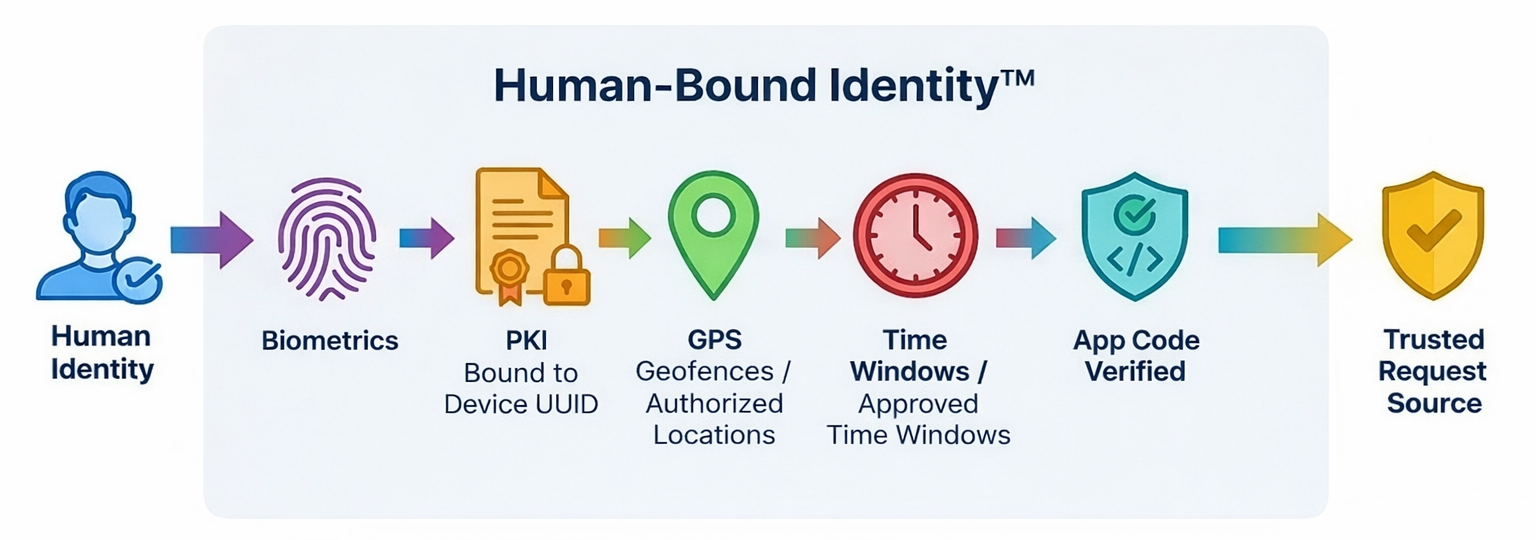
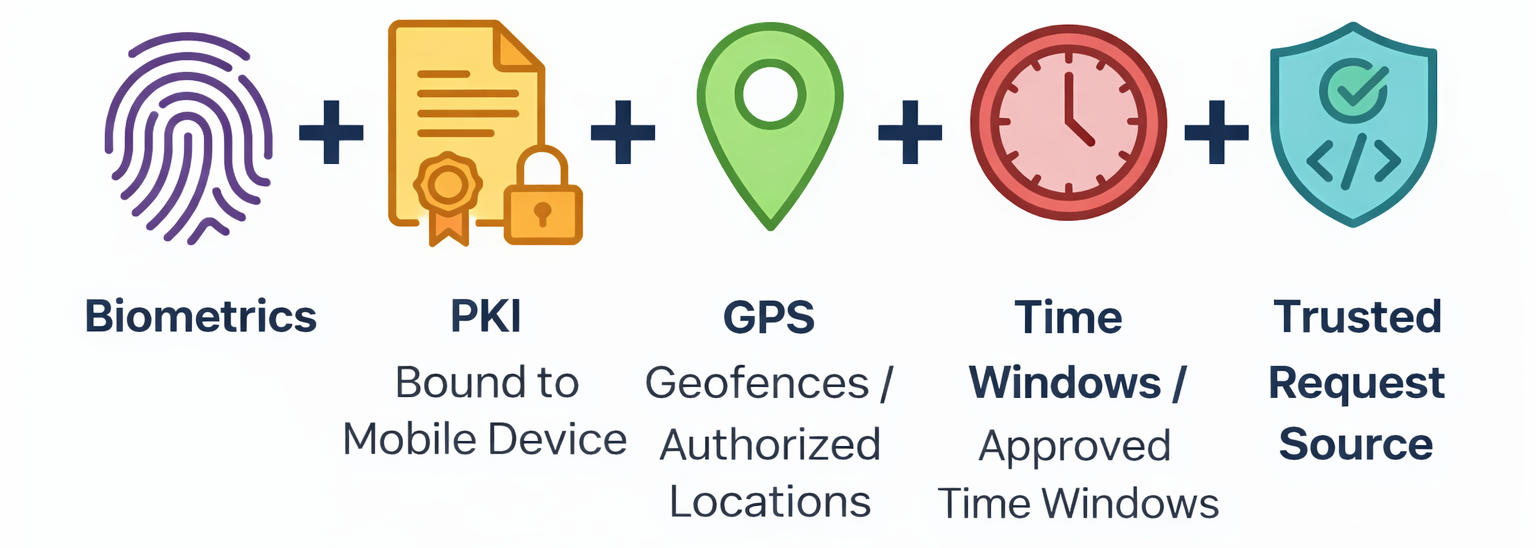
Update HumanAuthorityEnforce and HumanAuthorityMustProven components for improved text clarity and styling. Replace unused humanIdentity import. Update images for consistency in the homepage layout.

diff --git a/src/components/home/HumanAuthorityMustProven.tsx b/src/components/home/HumanAuthorityMustProven.tsx
@@ -7,18 +7,26 @@ const HumanAuthorityMustProven = () => {
         <h2 className="text-4xl md:text-5xl font-bold text-primary mb-6">
           Human Authority Must be Proven at Execution
         </h2>
-        <p className="mx-auto mt-4 max-w-3xl text-xl font-bold italic text-teal-primary sm:text-2xl">
+        <p className="mx-auto mt-4 max-w-3xl text-xl font-bold italic text-teal-primary sm:text-3xl">
           From Identity to Provable (and Trusted) Authority
         </p>
-        <div className="flex justify-center py-4">
+        <div className="flex justify-center py-4 mt-4">
           <div className="relative rounded-lg overflow-hidden ">
-            <Image
-              src={ProvenAuthorityImage}
-              alt="Human Authority Must be Proven at Execution"
-              width={1200}
-              height={700}
-              className="object-cover"
-            />
+            <div className=" border-5 max-w-4xl mx-auto p-6">
+              <h1 className="text-2xl font-bold text-primary mb-4">
+                Human-Bound Identity™ (Factors)
+              </h1>
+              <Image
+                src={ProvenAuthorityImage}
+                alt="Human Authority Must be Proven at Execution"
+                width={1200}
+                height={700}
+                className="object-cover"
+              />
+            </div>
+            <h2 className="text-2xl font-bold text-primary mb-4 max-w-3xl mt-6 mx-auto">
+              Proven Human Authority Before Risking Actions With 1-Click on Your Mobile Phone
+            </h2>
           </div>
         </div>
       </div>

diff --git a/src/components/home/HumanAuthorityEnforce.tsx b/src/components/home/HumanAuthorityEnforce.tsx
@@ -4,9 +4,9 @@ const HumanAuthorityEnforce = () => {
     return (
       <div className="text-center py-16 px-4">
         <h2 className="text-4xl md:text-5xl font-bold text-primary mb-6">
-          Human Authority Enforce at Execution
+          Human Authority Enforced at Execution
         </h2>
-        <p className="mx-auto mt-4 max-w-3xl text-xl font-bold italic text-teal-primary sm:text-2xl">
+        <p className="mx-auto mt-4 max-w-4xl text-xl font-bold italic text-teal-primary sm:text-3xl mb-4 md:mb-8">
           Identity Compromise No Longer Becomes Catastrophic
         </p>
         <div className="flex justify-center py-4">

diff --git a/src/components/home/HumanIdentity.tsx b/src/components/home/HumanIdentity.tsx
@@ -1,5 +1,4 @@
 import Image from 'next/image';
-import React from 'react';
 import humanIdentity from '@/assets/images/home/human-identity.jpg';
 
 export const HumanIdentity = () => {
